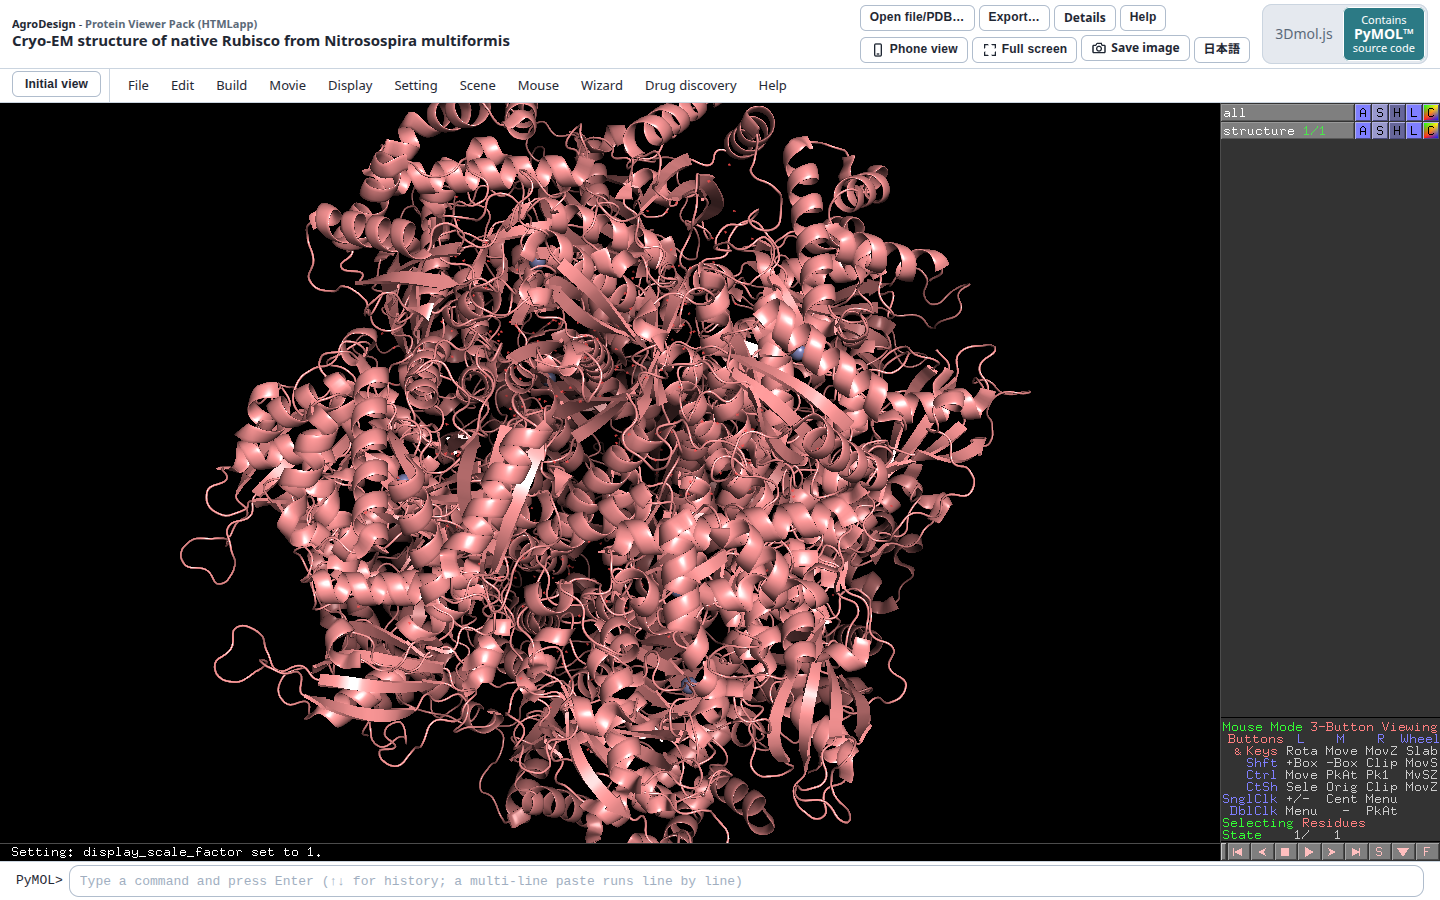
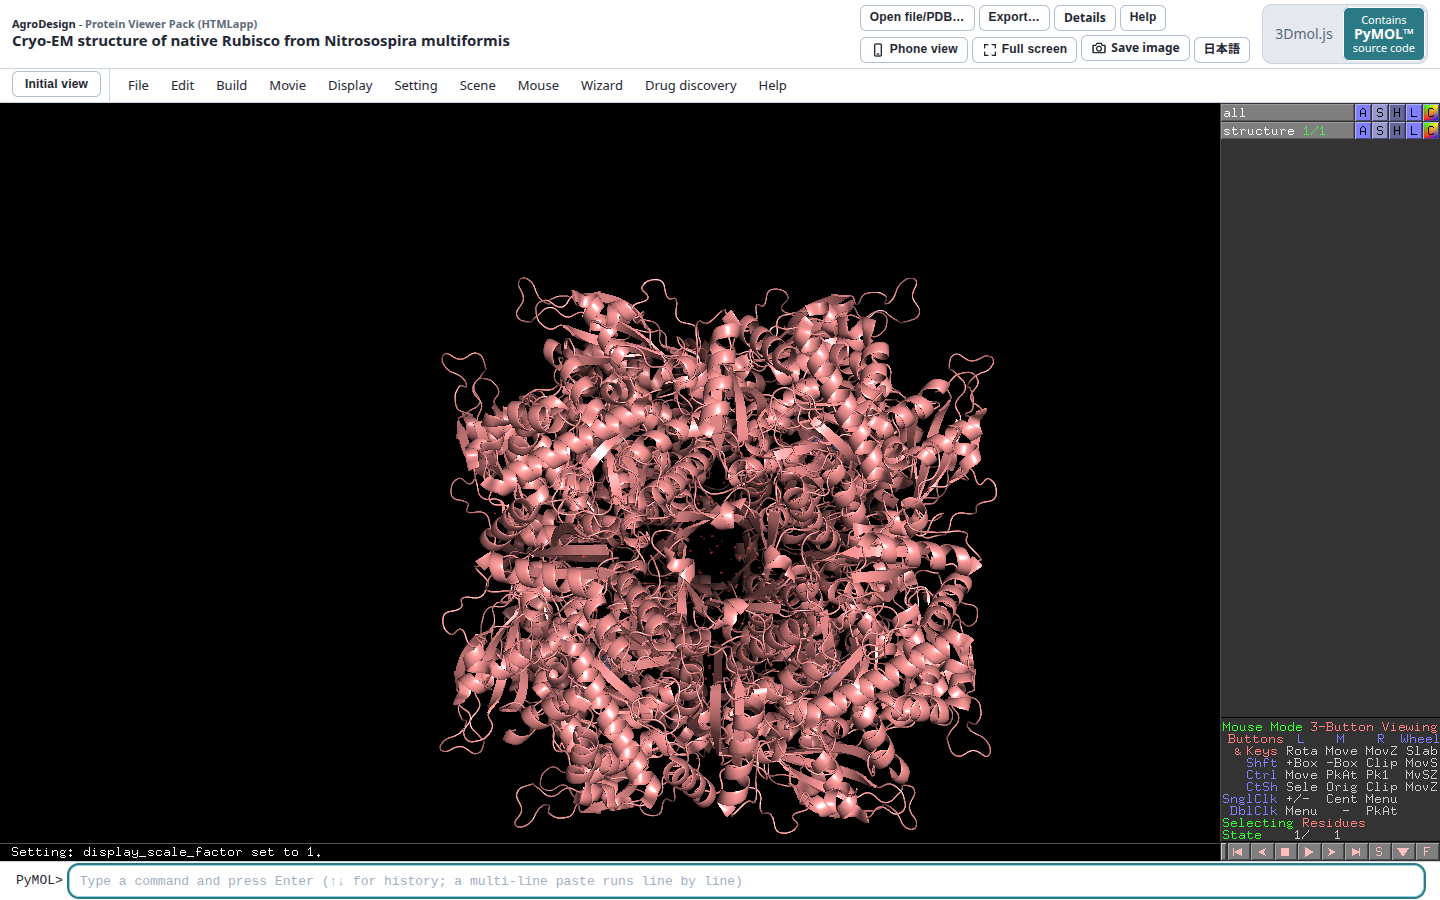
README: PC monitor picture under the phones; "advanced viewer" naming
- Under the two phone pictures, a PC monitor of the same width shows the
  sample on a PC screen cut on a slant: 3Dmol.js on the left, the advanced
  viewer on the right, with a small switch mark on the seam
  (images/screenshot-pc-monitor[-en].png; the monitor is drawn for this
  repository and depicts no particular product).
- The PC screenshots of the advanced viewer are retaken at the same
  orientation, size and position as the 3Dmol.js ones, so the two halves
  meet.
- The full edition's second engine is now called the "advanced viewer"
  (高機能ビューア) instead of the "second viewer"; PyMOL is still named only
  with the forms its licence allows ("Contains PyMOL(TM) source code.",
  "Built using PyMOL(TM).") and the trademark notice closes the document.
  The app, the release v1.0.0 assets and its tag are unchanged.

Source: AgDB docs/viewer-pack/ProteinViewerPack-README.md and
scripts/viewer_pack_monitor_frame.py.

Changed region(s): [[0.0625, 0.0933, 0.9688, 0.9644], [0.0312, 0.9956, 1.0, 1.0], [0.125, 0.5911, 0.1562, 0.6222]]

diff --git a/README.md b/README.md
@@ -16,9 +16,14 @@
 
 <p align="center">
 <img src="images/screenshot-phone-3dmol-framed.png" alt="スマホで 25HN を 3Dmol.js で表示" width="260">
-<img src="images/screenshot-phone-pymol-framed.png" alt="スマホで 25HN をフル版の 2 つ目のビューアで表示" width="260">
+<img src="images/screenshot-phone-pymol-framed.png" alt="スマホで 25HN をフル版の高機能ビューアで表示" width="260">
 </p>
-<p align="center"><sub>スマホで見たサンプル 25HN。左: 3Dmol.js、右: フル版の 2 つ目のビューア（Built using PyMOL™.）</sub></p>
+<p align="center"><sub>スマホで見たサンプル 25HN。左: 3Dmol.js、右: フル版の高機能ビューア（Built using PyMOL™.）</sub></p>
+
+<p align="center">
+<img src="images/screenshot-pc-monitor.png" alt="PC の画面で 25HN を表示。斜めの線の左は 3Dmol.js、右は高機能ビューア" width="524">
+</p>
+<p align="center"><sub>PC でも。左: 3Dmol.js、右: 高機能ビューア（Built using PyMOL™.）。ワンタッチで切り替えられます。</sub></p>
 
 *English follows below.*
 
@@ -28,7 +33,7 @@
 
 | ファイル | 大きさ | 中身 |
 |---|---|---|
-| `AgroDesign-ProteinViewerPack-v<版>_full_<日付>.html`（フル版） | 約 21 MB | 3Dmol.js と、2 つ目のビューア（Contains PyMOL™ source code.）: メニュー・コマンドライン・レイトレース画像・.pse セッション |
+| `AgroDesign-ProteinViewerPack-v<版>_full_<日付>.html`（フル版） | 約 21 MB | 3Dmol.js と高機能ビューア（Contains PyMOL™ source code.）: メニュー・コマンドライン・レイトレース画像・.pse セッション |
 | `AgroDesign-ProteinViewerPack-v<版>_light_<日付>.html`（ライト版） | 約 1.2 MB | 3Dmol.js のみ |
 
 ダウンロードしたファイルは空です。「ファイル/PDBを開く…」で構造ファイル（PDB・mmCIF・SDF/MOL・MOL2・XYZ、フル版は .pse も）を開くか、PDB ID を入れるか、ファイルをページにドロップします。
@@ -46,7 +51,7 @@
 ## 使い方
 
 - **回す・拡大・移動**: マウスは左ドラッグ・右ドラッグ・中ドラッグ。タッチは 1 本指・ピンチ・2 本指。
-- **ビューアの切り替え（フル版）**: 右上の切り替え（スマホは下部バーの「エンジン」）。2 つ目のビューアは起動に時間がかかり、メモリを 0.5〜1.5 GB 使います。
+- **ビューアの切り替え（フル版）**: 右上の切り替え（スマホは下部バーの「エンジン」）。高機能ビューアは起動に時間がかかり、メモリを 0.5〜1.5 GB 使います。
 - **スマホ表示**: 幅の狭い画面では 1 画面に収まる表示になり、下部バーで操作します。上部の「スマホ表示」／「PC」で切り替えられます。
 - **言語**: 日本語で開きます。上部の「English」／「日本語」で切り替えます。
 - **HELP**: 「このアプリについて」「使い方」「最新版ダウンロード」。
@@ -54,17 +59,17 @@
 ## できること
 
 - 3Dmol.js: リボン・スティック・ボール＆スティック・ライン・表面、配色、測定、ペンとレーザーポインター、奥行き強調、断面、平行投影
-- フル版の 2 つ目のビューア（Contains PyMOL™ source code.）: メニューとコマンドライン、.pse セッション、レイトレース画像
+- フル版の高機能ビューア（Contains PyMOL™ source code.）: メニューとコマンドライン、.pse セッション、レイトレース画像
 - 保存: スクリーンショット（PNG）、レイトレース画像、構造ファイル、選択範囲の分子ファイル、.pse、VRML（.wrl）、HTMLapp
 - 開いたファイルはどこにも送りません。ネットにつなぐのは、PDB から読むとき（files.rcsb.org）、「GitHub の最新版と比べる」を押したとき（api.github.com）、外へのリンクを開いたときだけです。
 
 ## PC での表示
 
-<img src="images/screenshot-pc-3dmol.png" alt="PC で 25HN を 3Dmol.js で表示" width="49%"> <img src="images/screenshot-pc-pymol.png" alt="PC で 25HN をフル版の 2 つ目のビューアで表示" width="49%">
+<img src="images/screenshot-pc-3dmol.png" alt="PC で 25HN を 3Dmol.js で表示" width="49%"> <img src="images/screenshot-pc-pymol.png" alt="PC で 25HN をフル版の高機能ビューアで表示" width="49%">
 
 ## 動作環境
 
-| ブラウザ | 3Dmol.js（両方の版） | 2 つ目のビューア（フル版） |
+| ブラウザ | 3Dmol.js（両方の版） | 高機能ビューア（フル版） |
 |---|---|---|
 | Chrome・Edge（Windows・macOS・Linux・Android） | 111 以降 | 111 以降 |
 | Firefox（Windows・macOS・Linux・Android） | 121 以降 | 121 以降 |
@@ -74,18 +79,18 @@
 - **実機で確認済み**: Windows の Chrome、iPhone の Edge
 - **自動検証のみ**: Linux の Chrome（headless・ソフトウェア描画で両方のビューアを確認）
 - **要件上は動くはず（未確認）**: Android（Chrome・Firefox など）、macOS（Safari・Chrome など）、Windows の Edge・Firefox、iPhone の Safari、iPad
-- 2 つ目のビューアが使えないブラウザやメモリの少ないスマホでは 3Dmol.js で表示します。WebGL がないブラウザでは、鎖とリガンドの一覧を文字で表示します。
+- 高機能ビューアが使えないブラウザやメモリの少ないスマホでは 3Dmol.js で表示します。WebGL がないブラウザでは、鎖とリガンドの一覧を文字で表示します。
 
 ## ライセンス・帰属・商標
 
 - このアプリ自体は [MIT License](LICENSE)。同梱のオープンソースソフトウェアはそれぞれのライセンスに従い、名前・版・全文は [`NOTICE`](NOTICE) とアプリの「HELP」→「このアプリについて」にあります。
-- Contains PyMOL™ source code.（PyMOL™ のソースコードを含みます。）フル版の 2 つ目のビューアは、AgroDesign Studios が Open-Source PyMOL のソースコードをそのライセンスのもとで変更・機能追加し、WebAssembly でブラウザ向けにビルドしたものです。Schrödinger, LLC が配布する PyMOL 製品とは別のものです。
+- Contains PyMOL™ source code.（PyMOL™ のソースコードを含みます。）フル版の高機能ビューアは、AgroDesign Studios が Open-Source PyMOL のソースコードをそのライセンスのもとで変更・機能追加し、WebAssembly でブラウザ向けにビルドしたものです。Schrödinger, LLC が配布する PyMOL 製品とは別のものです。
 - Powered by 3Dmol.js（BSD 3-Clause License）。論文: Nicholas Rego and David Koes, "3Dmol.js: molecular visualization with WebGL", *Bioinformatics* 31(8):1322–1324 (2015), [doi:10.1093/bioinformatics/btu829](https://doi.org/10.1093/bioinformatics/btu829)
 - サンプルは RCSB PDB のエントリ 25HN（[DOI 10.2210/pdb25HN/pdb](https://doi.org/10.2210/pdb25HN/pdb)）。PDB のデータは CC0 1.0 です。
-- バッジとスマホの絵（[`images/`](images)）:
+- バッジとスマホ・モニターの絵（[`images/`](images)）:
   - Android のロボットは Google の作品を複製・改変したもので、CC BY 3.0 の条件に従って使用しています（原文: "The Android robot is reproduced or modified from work created and shared by Google and used according to terms described in the [Creative Commons](https://creativecommons.org/licenses/by/3.0/) 3.0 Attribution License."）。
   - Linux のペンギン（Tux）は Larry Ewing（lewing@isc.tamu.edu）が The GIMP で描いたもので、[Simple Icons](https://simpleicons.org/) の図形（CC0 1.0）を使っています。
-  - iOS / iPadOS のバッジの電話の絵と、スクリーンショットを囲むスマホの絵は、このリポジトリで描いたもので、特定の製品を表すものではありません。ほかの OS とブラウザは名前だけで示しています。
+  - iOS / iPadOS のバッジの電話の絵と、スクリーンショットを囲むスマホとモニターの絵は、このリポジトリで描いたもので、特定の製品を表すものではありません。ほかの OS とブラウザは名前だけで示しています。
 - 商標: Android と Chrome は Google LLC の商標です。iPhone、iPad、iPadOS、macOS、Safari は、米国およびその他の国や地域で登録された Apple Inc. の商標です。IOS は Cisco の米国およびその他の国における商標または登録商標で、ライセンスに基づき使用されています。Microsoft、Microsoft Edge、Windows は Microsoft グループ各社の商標です。Linux® は Linus Torvalds の米国およびその他の国における登録商標です。Firefox は Mozilla Foundation の米国およびその他の国における商標です。このアプリはこれらの会社・団体（Mozilla を含む）と公式な関係はなく、名前は動作する環境を示すためだけに使っています。
 - 製作: 株式会社アグロデザイン・スタジオ（AgroDesign Studios）、西ヶ谷有輝（NISHIGAYA Yuki）。Copyright (c) 2026 AgroDesign Studios
 - PyMOL は Schrödinger, LLC の商標です（原文はこの README の末尾）。
@@ -110,9 +115,14 @@ A protein structure viewer in **one HTML file**. Powered by 3Dmol.js. Contains P
 
 <p align="center">
 <img src="images/screenshot-phone-3dmol-en-framed.png" alt="25HN shown with 3Dmol.js on a phone" width="260">
-<img src="images/screenshot-phone-pymol-en-framed.png" alt="25HN shown with the full edition's second viewer on a phone" width="260">
+<img src="images/screenshot-phone-pymol-en-framed.png" alt="25HN shown with the full edition's advanced viewer on a phone" width="260">
 </p>
-<p align="center"><sub>The sample 25HN on a phone. Left: 3Dmol.js. Right: the full edition's second viewer (Built using PyMOL™.)</sub></p>
+<p align="center"><sub>The sample 25HN on a phone. Left: 3Dmol.js. Right: the full edition's advanced viewer (Built using PyMOL™.)</sub></p>
+
+<p align="center">
+<img src="images/screenshot-pc-monitor-en.png" alt="25HN on a PC screen: 3Dmol.js left of the slanted line, the advanced viewer right of it" width="524">
+</p>
+<p align="center"><sub>On a PC too. Left: 3Dmol.js. Right: the advanced viewer (Built using PyMOL™.) One click switches between them.</sub></p>
 
 ## Download
 
@@ -120,7 +130,7 @@ From [Releases](https://github.com/AgroDesign-Studios/ProteinViewerPack/releases
 
 | File | Size | Contents |
 |---|---|---|
-| `AgroDesign-ProteinViewerPack-v<version>_full_<date>.html` (full edition) | about 21 MB | 3Dmol.js and a second viewer (Contains PyMOL™ source code.): menus, command line, ray-traced images, .pse sessions |
+| `AgroDesign-ProteinViewerPack-v<version>_full_<date>.html` (full edition) | about 21 MB | 3Dmol.js and an advanced viewer (Contains PyMOL™ source code.): menus, command line, ray-traced images, .pse sessions |
 | `AgroDesign-ProteinViewerPack-v<version>_light_<date>.html` (light edition) | about 1.2 MB | 3Dmol.js only |
 
 The downloaded files are empty. Open a structure file with "Open file/PDB…" (PDB, mmCIF, SDF/MOL, MOL2, XYZ; .pse in the full edition), enter a PDB ID, or drop a file on the page.
@@ -138,7 +148,7 @@ Mail services often cap attachments at about 20-25 MB, so the full edition (abou
 ## How to use
 
 - **Turn, zoom, move**: mouse left, right and middle drag; on a touch screen one finger, pinch and two fingers.
-- **Switch viewer (full edition)**: the control at the top right (on a phone, "Engine" in the bottom bar). The second viewer takes a while to start and uses 0.5-1.5 GB of memory.
+- **Switch viewer (full edition)**: the control at the top right (on a phone, "Engine" in the bottom bar). The advanced viewer takes a while to start and uses 0.5-1.5 GB of memory.
 - **Phone layout**: a narrow screen gets a one-screen layout with a bottom bar. "Phone view" / "PC" at the top switches.
 - **Language**: opens in Japanese; "English" / "日本語" at the top switches.
 - **Help**: "About this app", "How to use", "Latest version".
@@ -146,17 +156,17 @@ Mail services often cap attachments at about 20-25 MB, so the full edition (abou
 ## Features
 
 - 3Dmol.js: ribbon, stick, ball and stick, line, surface; colouring; measuring; pen and laser pointer; depth cueing, slicing, orthographic view
-- The full edition's second viewer (Contains PyMOL™ source code.): menus and command line, .pse sessions, ray-traced images
+- The full edition's advanced viewer (Contains PyMOL™ source code.): menus and command line, .pse sessions, ray-traced images
 - Save: screenshots (PNG), ray-traced images, structure files, molecule files of a selection, .pse, VRML (.wrl), HTMLapp
 - The files you open are sent nowhere. The app goes online only to load from the PDB (files.rcsb.org), when you press "Compare with the latest on GitHub" (api.github.com), or when you follow a link out of the file.
 
 ## On a PC
 
-<img src="images/screenshot-pc-3dmol-en.png" alt="25HN shown with 3Dmol.js on a PC" width="49%"> <img src="images/screenshot-pc-pymol-en.png" alt="25HN shown with the full edition's second viewer on a PC" width="49%">
+<img src="images/screenshot-pc-3dmol-en.png" alt="25HN shown with 3Dmol.js on a PC" width="49%"> <img src="images/screenshot-pc-pymol-en.png" alt="25HN shown with the full edition's advanced viewer on a PC" width="49%">
 
 ## Supported environments
 
-| Browser | 3Dmol.js (both editions) | Second viewer (full edition) |
+| Browser | 3Dmol.js (both editions) | Advanced viewer (full edition) |
 |---|---|---|
 | Chrome, Edge (Windows, macOS, Linux, Android) | 111 or later | 111 or later |
 | Firefox (Windows, macOS, Linux, Android) | 121 or later | 121 or later |
@@ -166,18 +176,18 @@ Mail services often cap attachments at about 20-25 MB, so the full edition (abou
 - **Tried on real devices**: Chrome on Windows, Edge on an iPhone
 - **Automated check only**: Chrome on Linux (headless, software rendering, both viewers)
 - **Should work from the requirements (not yet tried)**: Android (Chrome, Firefox and others), macOS (Safari, Chrome and others), Edge and Firefox on Windows, Safari on an iPhone, an iPad
-- Where the second viewer cannot run (an older browser, a phone short of memory), 3Dmol.js shows the structure. Without WebGL, the app lists the chains and ligands in words.
+- Where the advanced viewer cannot run (an older browser, a phone short of memory), 3Dmol.js shows the structure. Without WebGL, the app lists the chains and ligands in words.
 
 ## License, attribution and trademarks
 
 - This app is under the [MIT License](LICENSE). The open-source software it carries keeps its own licence; names, versions and full texts are in [`NOTICE`](NOTICE) and in the app under "Help" → "About this app".
-- Contains PyMOL™ source code. The full edition's second viewer is built from Open-Source PyMOL source code, which AgroDesign Studios modified and extended under its license and compiled for the browser with WebAssembly. It is distinct from the PyMOL products distributed by Schrödinger, LLC.
+- Contains PyMOL™ source code. The full edition's advanced viewer is built from Open-Source PyMOL source code, which AgroDesign Studios modified and extended under its license and compiled for the browser with WebAssembly. It is distinct from the PyMOL products distributed by Schrödinger, LLC.
 - Powered by 3Dmol.js (BSD 3-Clause License). Please cite: Nicholas Rego and David Koes, "3Dmol.js: molecular visualization with WebGL", *Bioinformatics* 31(8):1322-1324 (2015), [doi:10.1093/bioinformatics/btu829](https://doi.org/10.1093/bioinformatics/btu829)
 - The sample is PDB entry 25HN from the RCSB PDB ([DOI 10.2210/pdb25HN/pdb](https://doi.org/10.2210/pdb25HN/pdb)). PDB data are CC0 1.0.
-- Badges and phone pictures ([`images/`](images)):
+- Badges, phone and monitor pictures ([`images/`](images)):
   - The Android robot is reproduced or modified from work created and shared by Google and used according to terms described in the [Creative Commons](https://creativecommons.org/licenses/by/3.0/) 3.0 Attribution License.
   - Tux, the Linux penguin, was drawn by Larry Ewing (lewing@isc.tamu.edu) with The GIMP; the shape used is from [Simple Icons](https://simpleicons.org/) (CC0 1.0).
-  - The phone outline on the iOS / iPadOS badge and the phone around the screenshots were drawn for this repository and depict no particular product. The other systems and the browsers are shown by name only.
+  - The phone outline on the iOS / iPadOS badge and the phone and the monitor around the screenshots were drawn for this repository and depict no particular product. The other systems and the browsers are shown by name only.
 - Trademarks: Android and Chrome are trademarks of Google LLC. iPhone, iPad, iPadOS, macOS and Safari are trademarks of Apple Inc., registered in the U.S. and other countries and regions. IOS is a trademark or registered trademark of Cisco in the U.S. and other countries and is used under license. Microsoft, Microsoft Edge and Windows are trademarks of the Microsoft group of companies. Linux® is the registered trademark of Linus Torvalds in the U.S. and other countries. Firefox is a trademark of the Mozilla Foundation in the U.S. and other countries. This app is not officially associated with any of these companies or organisations, Mozilla included; the names are used only to say where the app runs.
 - Made by AgroDesign Studios, Inc. (NISHIGAYA Yuki). Copyright (c) 2026 AgroDesign Studios
 - The PyMOL trademark notice is at the end of this README.
